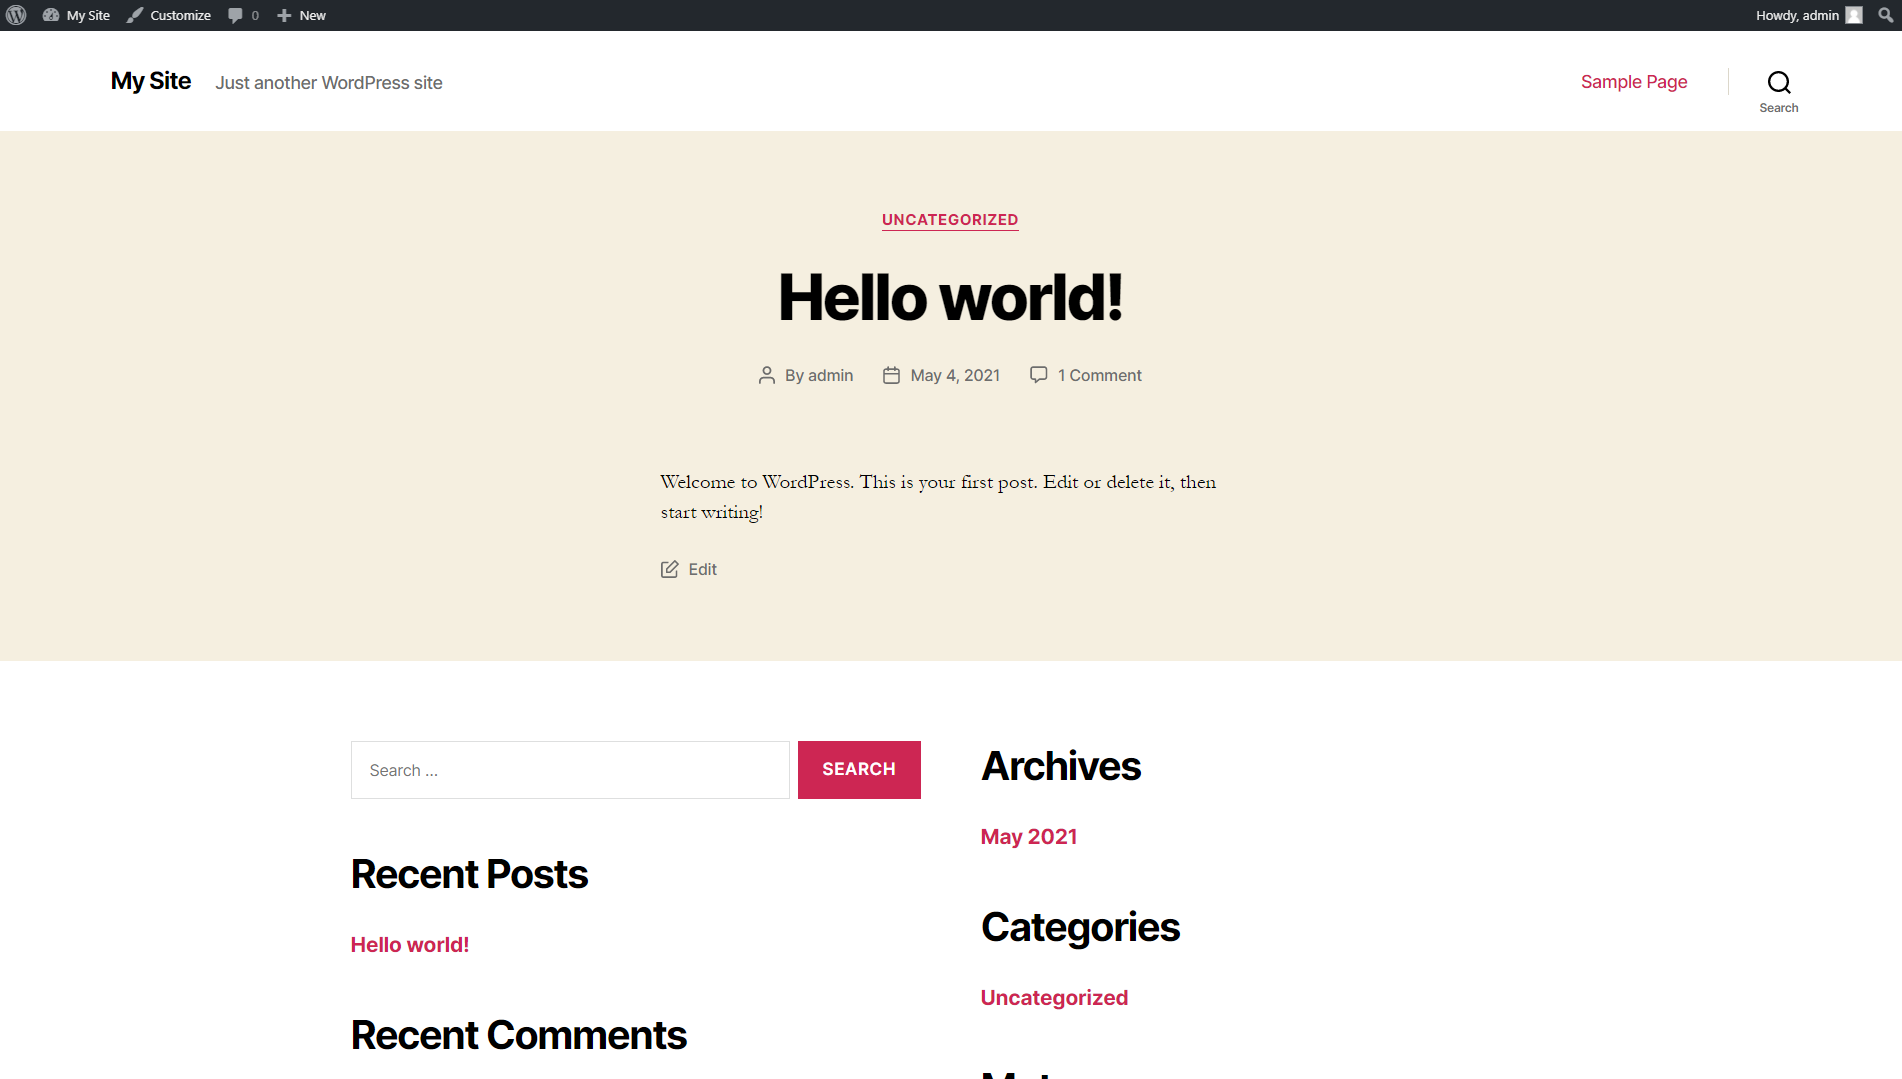
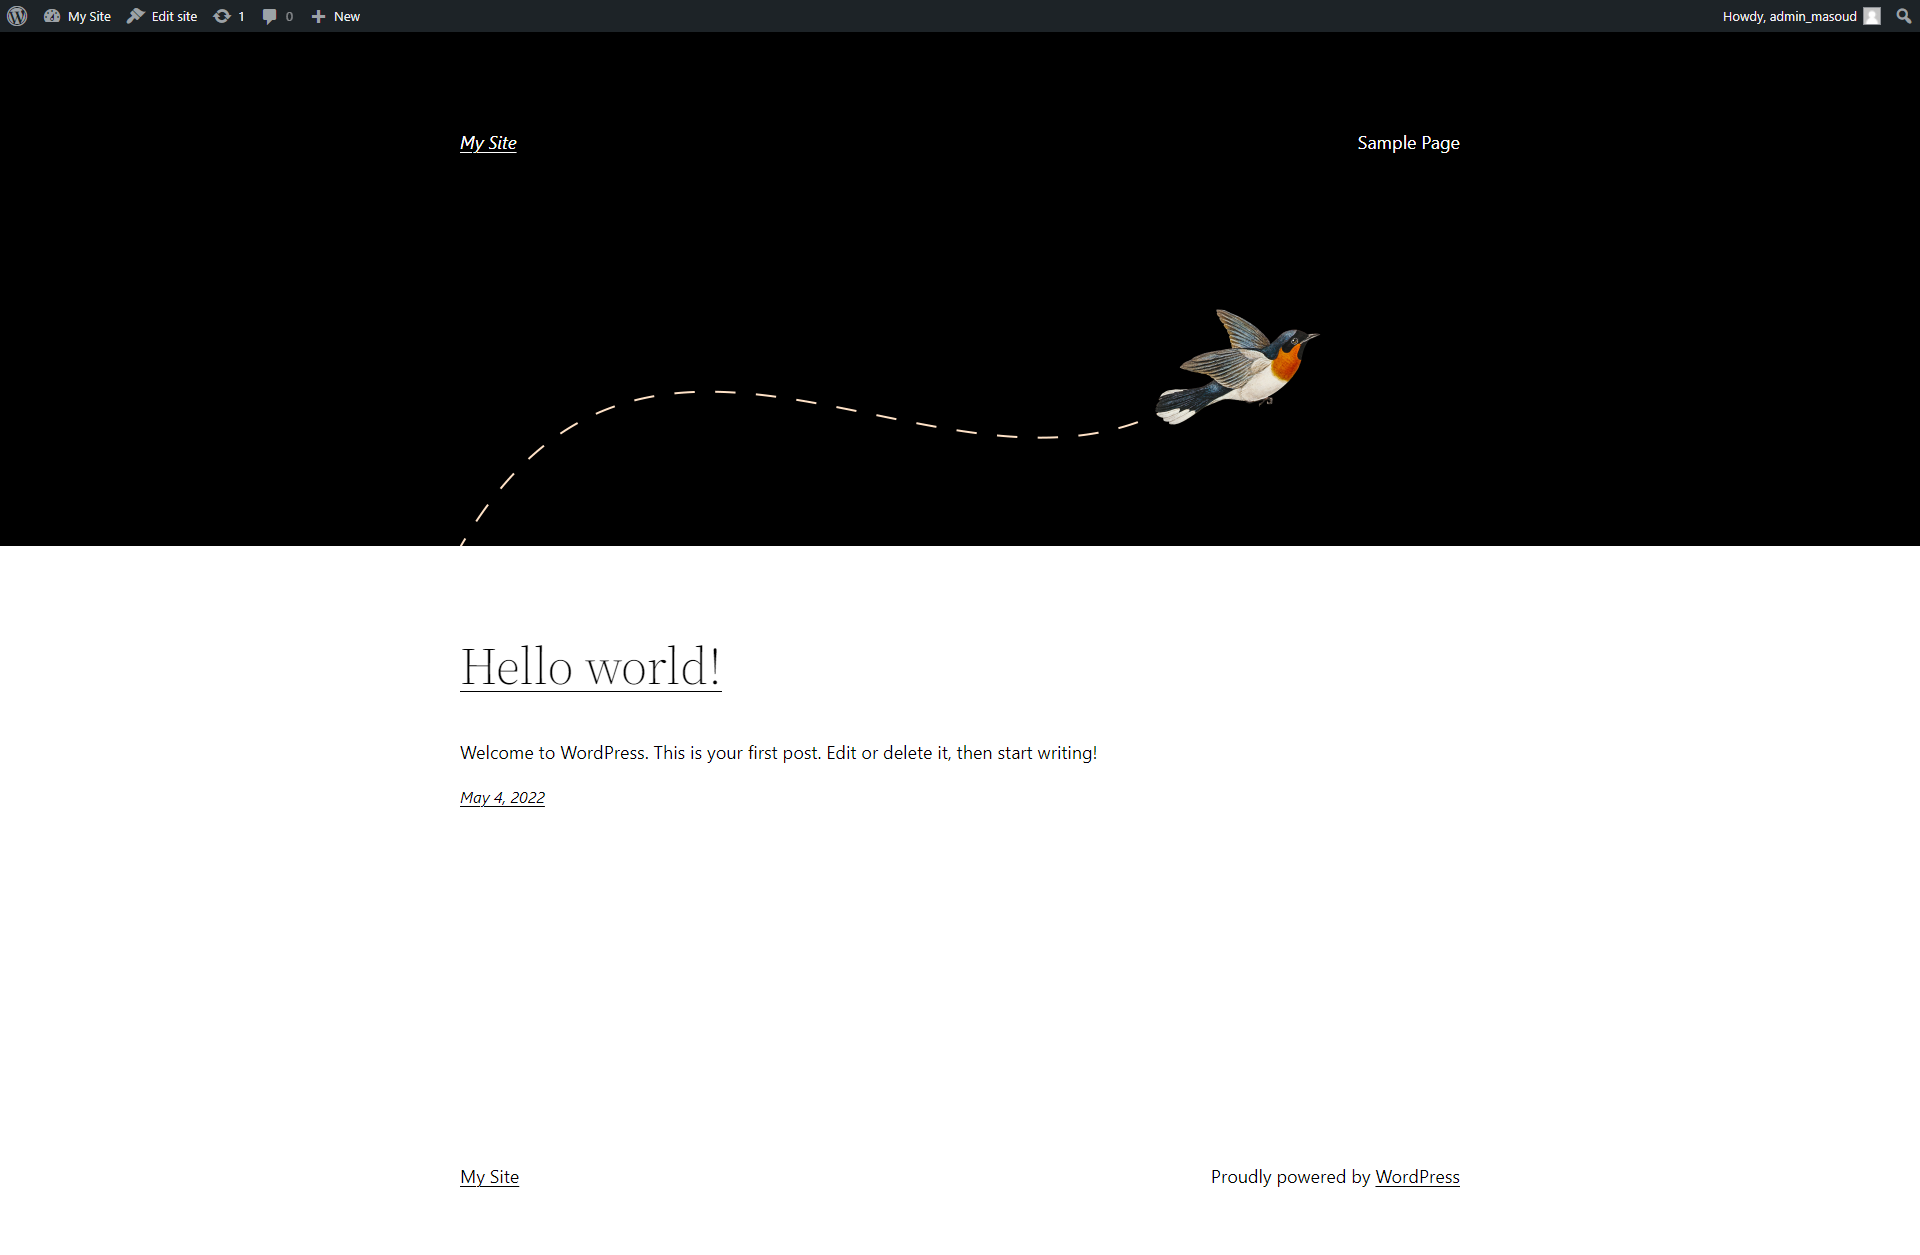
updated screenshots & readme

diff --git a/README.md b/README.md
@@ -59,9 +59,9 @@ Database Host : mariadb
 
 # Features to be added soon :
 
-- Upgrade to latest wordpress
-- Upgrade php to version 7.4 & 8
-- Add File Manager service to this stack
-- Fix some bugs
+- [x] Upgraded to latest wordpress 
+- [x] Upgrade php to version 7.4
+- [ ] Upgrade php to version 8.x
+- [ ] Add File Manager service to this stack
 
 * push your changes to this repo and send Merge Requests to me
